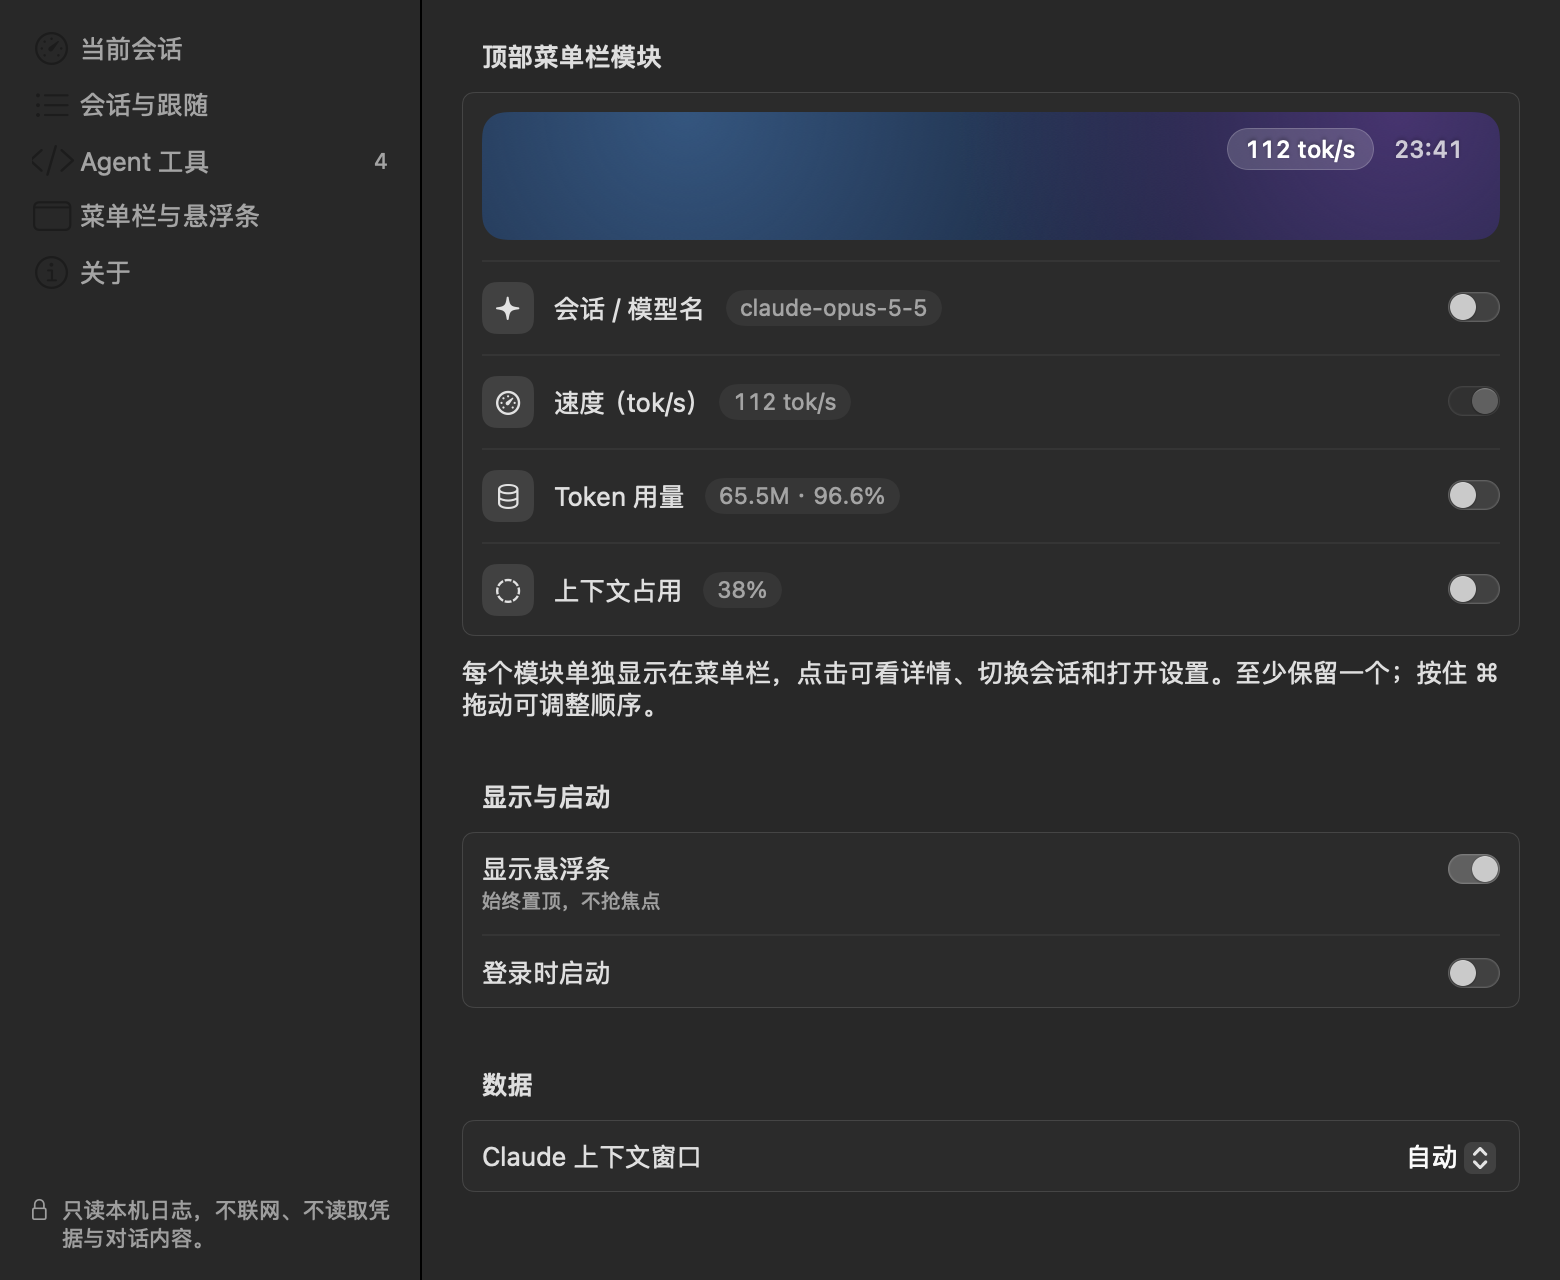
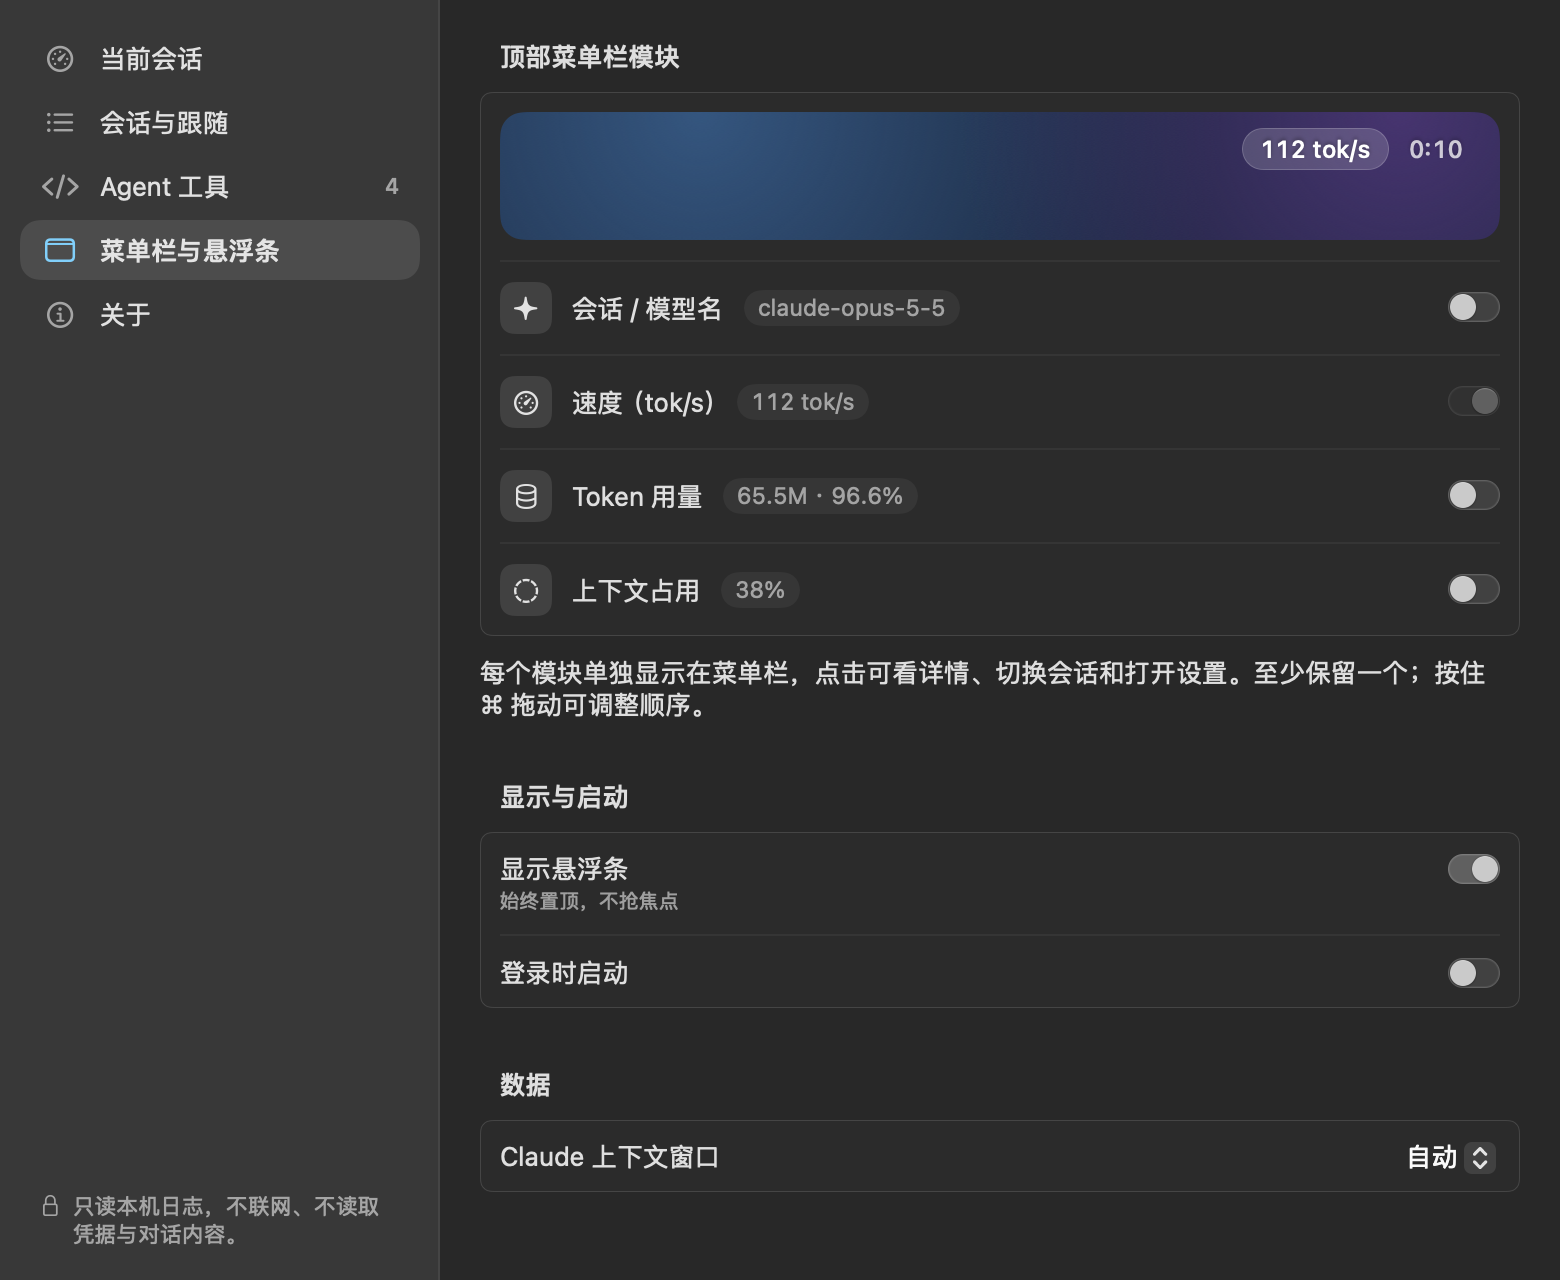
AgentPulse 1.0.1: clickable sidebars in settings and session browser
- Replace List(selection:) sidebars with button rows (SelectRow / SidePane in
  DesignKit); the list selection never took effect, so rows could not be clicked
- Session browser: larger default size, opaque rescan bar
- Read further into Claude logs whose first line is very long, so sessions show
  their project name instead of an ID
- Paint the window background in the settings screenshot

diff --git a/Sources/AgentPulse/SessionBrowser.swift b/Sources/AgentPulse/SessionBrowser.swift
@@ -8,14 +8,14 @@ enum SessionBrowser {
 
     static func show() {
         if window == nil {
-            let w = NSWindow(contentRect: NSRect(x: 0, y: 0, width: 980, height: 620),
+            let w = NSWindow(contentRect: NSRect(x: 0, y: 0, width: 1180, height: 700),
                              styleMask: [.titled, .closable, .resizable, .miniaturizable, .fullSizeContentView],
                              backing: .buffered, defer: false)
             w.title = "更多会话"
             w.titlebarAppearsTransparent = true
             w.titleVisibility = .hidden
             w.isReleasedWhenClosed = false
-            w.minSize = NSSize(width: 760, height: 420)
+            w.minSize = NSSize(width: 1060, height: 460)
             w.contentView = NSHostingView(rootView: SessionBrowserView().environmentObject(Monitor.shared))
             w.center()
             w.setFrameAutosaveName("AgentPulseSessionBrowser")
@@ -39,12 +39,10 @@ struct SessionBrowserView: View {
     @State private var query = ""
 
     var body: some View {
-        NavigationSplitView {
-            toolList.navigationSplitViewColumnWidth(min: 200, ideal: 230)
-        } content: {
-            sessionList.navigationSplitViewColumnWidth(min: 260, ideal: 320)
-        } detail: {
-            detailPane
+        HStack(spacing: 0) {
+            SidePane(width: 216) { toolList }
+            SidePane(width: 300) { sessionList }
+            detailPane.frame(maxWidth: .infinity, maxHeight: .infinity)
         }
         .onAppear { if tool == nil { tool = preselectTool ?? monitor.supportedTools.first?.id } }
         .onChange(of: monitor.tools) { tools in
@@ -57,18 +55,23 @@ struct SessionBrowserView: View {
     // MARK: Tools
 
     private var toolList: some View {
-        List(selection: $tool) {
-            Section("已适配") {
+        ScrollView {
+            VStack(alignment: .leading, spacing: 2) {
+                SectionLabel(text: "已适配")
                 ForEach(monitor.tools.filter(\.supported)) { t in
-                    toolRow(t).tag(Optional(t.id))
+                    SelectRow(selected: tool == t.id, action: { tool = t.id }) { toolRow(t) }
+                }
+                let others = monitor.tools.filter { !$0.supported }
+                if !others.isEmpty {
+                    SectionLabel(text: "已检测到，暂无法读取").padding(.top, 10)
+                    ForEach(others) { t in
+                        SelectRow(selected: tool == t.id, action: { tool = t.id }) { toolRow(t) }
+                    }
                 }
             }
-            let others = monitor.tools.filter { !$0.supported }
-            if !others.isEmpty {
-                Section("已检测到，暂无法读取") {
-                    ForEach(others) { t in toolRow(t).tag(Optional(t.id)) }
-                }
-            }
+            .padding(.horizontal, 10)
+            .padding(.top, 10)
+            .padding(.bottom, 8)
         }
         .safeAreaInset(edge: .bottom) {
             HStack {
@@ -83,6 +86,10 @@ struct SessionBrowserView: View {
             }
             .font(.system(size: 11.5))
             .padding(10)
+            .background(
+                Color(nsColor: .windowBackgroundColor).overlay(Color.primary.opacity(0.035))
+            )
+            .overlay(alignment: .top) { Rectangle().fill(Theme.hairline).frame(height: 1) }
         }
     }
 
@@ -110,16 +117,21 @@ struct SessionBrowserView: View {
             } else if sessions.isEmpty {
                 placeholder("还没有会话", "用 \(t.spec.name) 开始一个对话后会出现在这里")
             } else {
-                List(selection: $selected) {
-                    ForEach(groupedByDay, id: \.0) { day, refs in
-                        Section(day) {
-                            ForEach(refs) { ref in sessionRow(ref).tag(Optional(ref.path)) }
+                ScrollView {
+                    LazyVStack(alignment: .leading, spacing: 2) {
+                        ForEach(groupedByDay, id: \.0) { day, refs in
+                            SectionLabel(text: day).padding(.top, 8)
+                            ForEach(refs) { ref in
+                                SelectRow(selected: selected == ref.path, action: { selected = ref.path }) {
+                                    sessionRow(ref)
+                                }
+                            }
                         }
                     }
+                    .padding(.horizontal, 10)
+                    .padding(.bottom, 12)
                 }
                 .safeAreaInset(edge: .top, spacing: 0) { listHeader(t) }
-                .navigationTitle(t.spec.name)
-                .navigationSubtitle("\(sessions.count) 个会话")
             }
         } else {
             placeholder("选择一个工具", "左侧是在这台 Mac 上检测到的 agent 工具")

diff --git a/Sources/AgentPulse/App.swift b/Sources/AgentPulse/App.swift
@@ -121,38 +121,43 @@ struct SettingsView: View {
     }
 
     var body: some View {
-        NavigationSplitView {
-            List(selection: $page) {
-                ForEach(SettingsPage.allCases) { p in
-                    Label {
-                        HStack {
+        let current = page ?? .current
+        HStack(spacing: 0) {
+            SidePane(width: 220) {
+                VStack(alignment: .leading, spacing: 2) {
+                    ForEach(SettingsPage.allCases) { p in
+                        SelectRow(selected: current == p, action: { page = p }) {
+                            Image(systemName: p.symbol)
+                                .font(.system(size: 13, weight: .medium))
+                                .foregroundStyle(current == p ? Theme.accent : Color.secondary)
+                                .frame(width: 20)
                             Text(p.title)
+                                .font(.system(size: 13, weight: current == p ? .semibold : .regular))
+                            Spacer(minLength: 4)
                             if p == .tools, !monitor.supportedTools.isEmpty {
-                                Spacer()
-                                Text("\(monitor.supportedTools.count)").font(.system(size: 11).monospacedDigit())
+                                Text("\(monitor.supportedTools.count)")
+                                    .font(.system(size: 11, weight: .medium).monospacedDigit())
                                     .foregroundStyle(.secondary)
                             }
                         }
-                    } icon: {
-                        Image(systemName: p.symbol)
                     }
-                    .tag(Optional(p))
+                    Spacer(minLength: 12)
+                    HStack(alignment: .firstTextBaseline, spacing: 6) {
+                        Image(systemName: "lock")
+                        Text(verbatim: "只读本机日志，不联网、不读取凭据与对话内容。")
+                            .fixedSize(horizontal: false, vertical: true)
+                    }
+                    .font(.system(size: 11))
+                    .foregroundStyle(.secondary)
+                    .padding(.horizontal, 10)
                 }
+                .padding(.horizontal, 10)
+                .padding(.top, 14)
+                .padding(.bottom, 16)
             }
-            .navigationSplitViewColumnWidth(min: 190, ideal: 210, max: 260)
-            .safeAreaInset(edge: .bottom) {
-                HStack(alignment: .firstTextBaseline, spacing: 6) {
-                    Image(systemName: "lock")
-                    Text(verbatim: "只读本机日志，不联网、不读取凭据与对话内容。")
-                        .fixedSize(horizontal: false, vertical: true)
-                }
-                .font(.system(size: 11))
-                .foregroundStyle(.secondary)
-                .padding(14)
-            }
-        } detail: {
+
             Group {
-                switch page ?? .current {
+                switch current {
                 case .current: CurrentSessionPage()
                 case .sessions: SessionsPage()
                 case .tools: ToolsPage()
@@ -160,7 +165,7 @@ struct SettingsView: View {
                 case .about: AboutPage()
                 }
             }
-            .navigationTitle((page ?? .current).title)
+            .frame(maxWidth: .infinity, maxHeight: .infinity)
         }
         .toggleStyle(.switch)
         .frame(minWidth: 680, minHeight: 460)

diff --git a/Sources/AgentPulse/DesignKit.swift b/Sources/AgentPulse/DesignKit.swift
@@ -260,6 +260,47 @@ struct Footnote: View {
     }
 }
 
+/// A selectable row for sidebars and lists. Built from plain buttons instead of
+/// `List(selection:)`, whose rows did not respond to clicks in our windows.
+struct SelectRow<Content: View>: View {
+    let selected: Bool
+    let action: () -> Void
+    @ViewBuilder let content: Content
+    @State private var hover = false
+
+    var body: some View {
+        Button(action: action) {
+            HStack(spacing: 10) { content }
+                .padding(.horizontal, 10)
+                .padding(.vertical, 7)
+                .frame(maxWidth: .infinity, alignment: .leading)
+                .background(
+                    RoundedRectangle(cornerRadius: 10, style: .continuous)
+                        .fill(selected ? Theme.raisedFill : (hover ? Theme.groupFill : Color.clear))
+                )
+                .contentShape(RoundedRectangle(cornerRadius: 10, style: .continuous))
+        }
+        .buttonStyle(.plain)
+        .onHover { hover = $0 }
+        .accessibilityAddTraits(selected ? .isSelected : [])
+    }
+}
+
+/// Background of a window's side column: a shade lighter than the content, with a hairline edge.
+struct SidePane<Content: View>: View {
+    var width: CGFloat
+    @ViewBuilder let content: Content
+    var body: some View {
+        content
+            .frame(width: width)
+            .frame(maxHeight: .infinity, alignment: .top)
+            .background(Color.primary.opacity(0.035).ignoresSafeArea())
+            .overlay(alignment: .trailing) {
+                Rectangle().fill(Theme.hairline).frame(width: 1).ignoresSafeArea()
+            }
+    }
+}
+
 struct SectionLabel: View {
     let text: String
     var body: some View {

diff --git a/Sources/AgentPulse/Readers.swift b/Sources/AgentPulse/Readers.swift
@@ -152,8 +152,13 @@ enum SessionDiscovery {
         }
         guard let fh = FileHandle(forReadingAtPath: path) else { return (nil, nil, nil) }
         defer { try? fh.close() }
-        guard let data = try? fh.read(upToCount: 64 * 1024) else { return (nil, nil, nil) }
-        // Lossy decode: the 64 KB cut can land inside a multi-byte character.
+        guard var data = try? fh.read(upToCount: 64 * 1024) else { return (nil, nil, nil) }
+        // A very long first line (e.g. a forked session's summary) can push `cwd` further in.
+        if data.count == 64 * 1024, data.range(of: Data(#""cwd""#.utf8)) == nil,
+           let more = try? fh.read(upToCount: 960 * 1024) {
+            data.append(more)
+        }
+        // Lossy decode: the cut can land inside a multi-byte character.
         let s = String(decoding: data, as: UTF8.self)
         let ns = s as NSString
         let range = NSRange(location: 0, length: ns.length)

diff --git a/Sources/AgentPulse/PreviewRenderer.swift b/Sources/AgentPulse/PreviewRenderer.swift
@@ -81,7 +81,9 @@ enum PreviewRenderer {
         }
 
         // Form uses AppKit controls, which ImageRenderer can't draw: snapshot a real hosting view instead.
+        // The window background isn't part of the hosting view's snapshot; paint it in.
         let host = NSHostingView(rootView: SettingsView(page: .display)
+            .background(Color(nsColor: .windowBackgroundColor))
             .environmentObject(monitor).environmentObject(HUDController.shared).environmentObject(MenuBarModules.shared))
         let win = NSWindow(contentRect: NSRect(x: -3000, y: 0, width: 780, height: 640),
                            styleMask: [.titled], backing: .buffered, defer: false)
